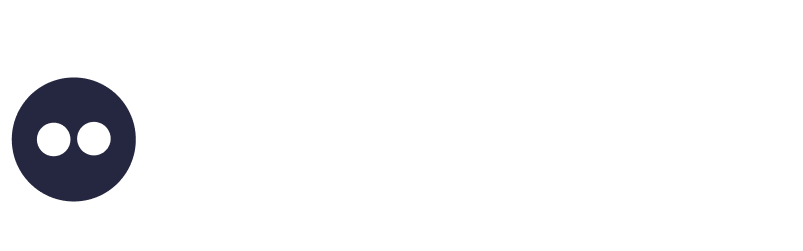
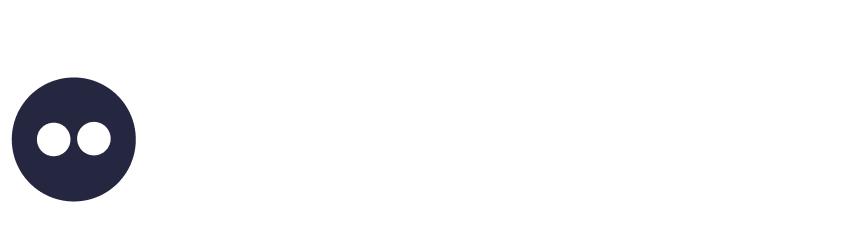
feat : splash update

diff --git a/FE/src/app/splashscreen/splashscreen.component.scss b/FE/src/app/splashscreen/splashscreen.component.scss
@@ -11,7 +11,7 @@
 
         &__gemma-icon {
             display: grid;
-            width: 200px;
+            width: auto;
             height: 200px;
         }
     }
